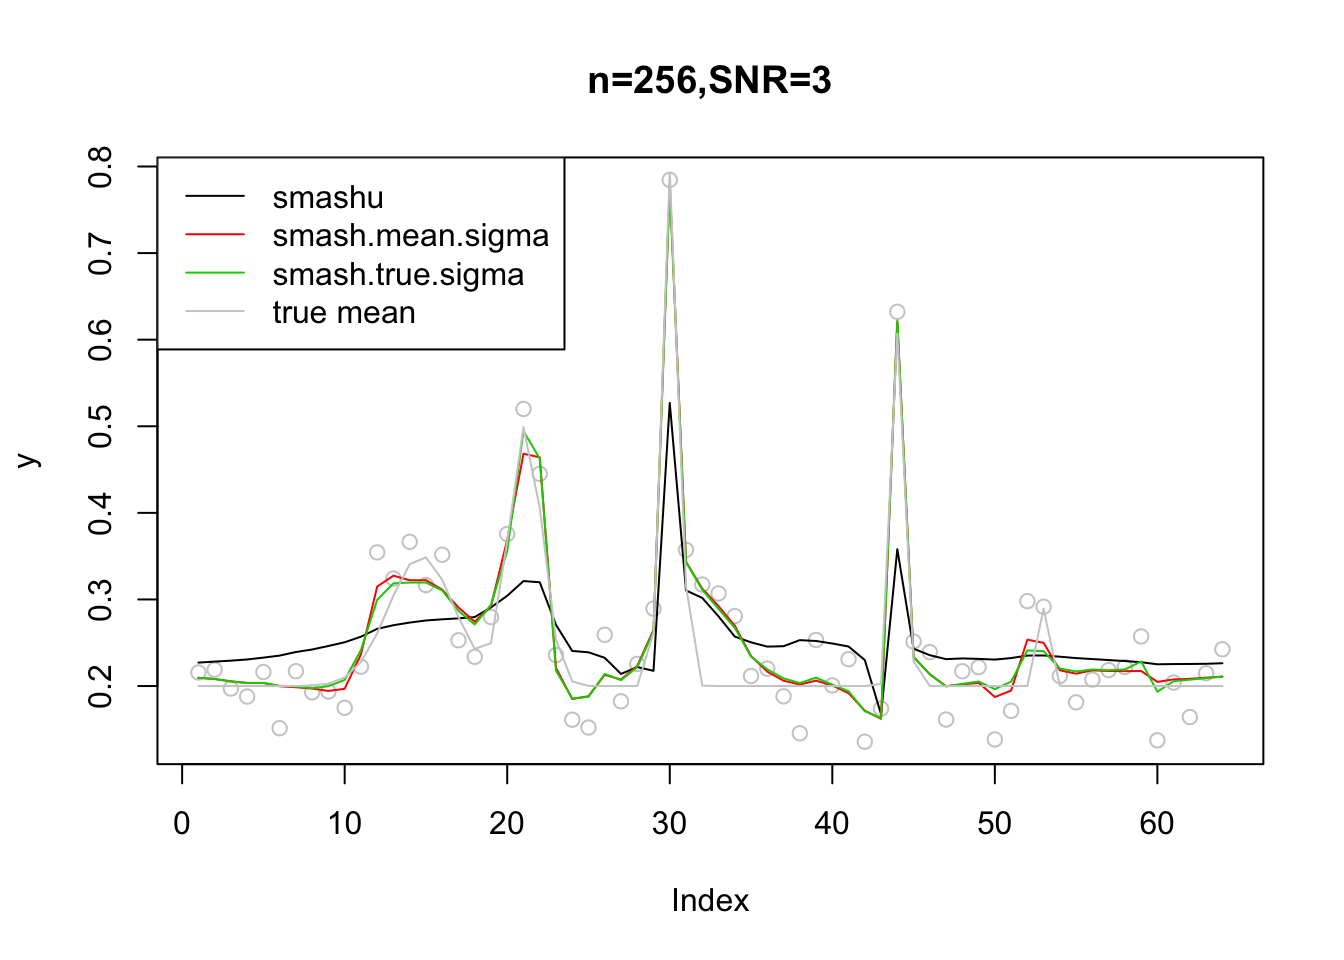
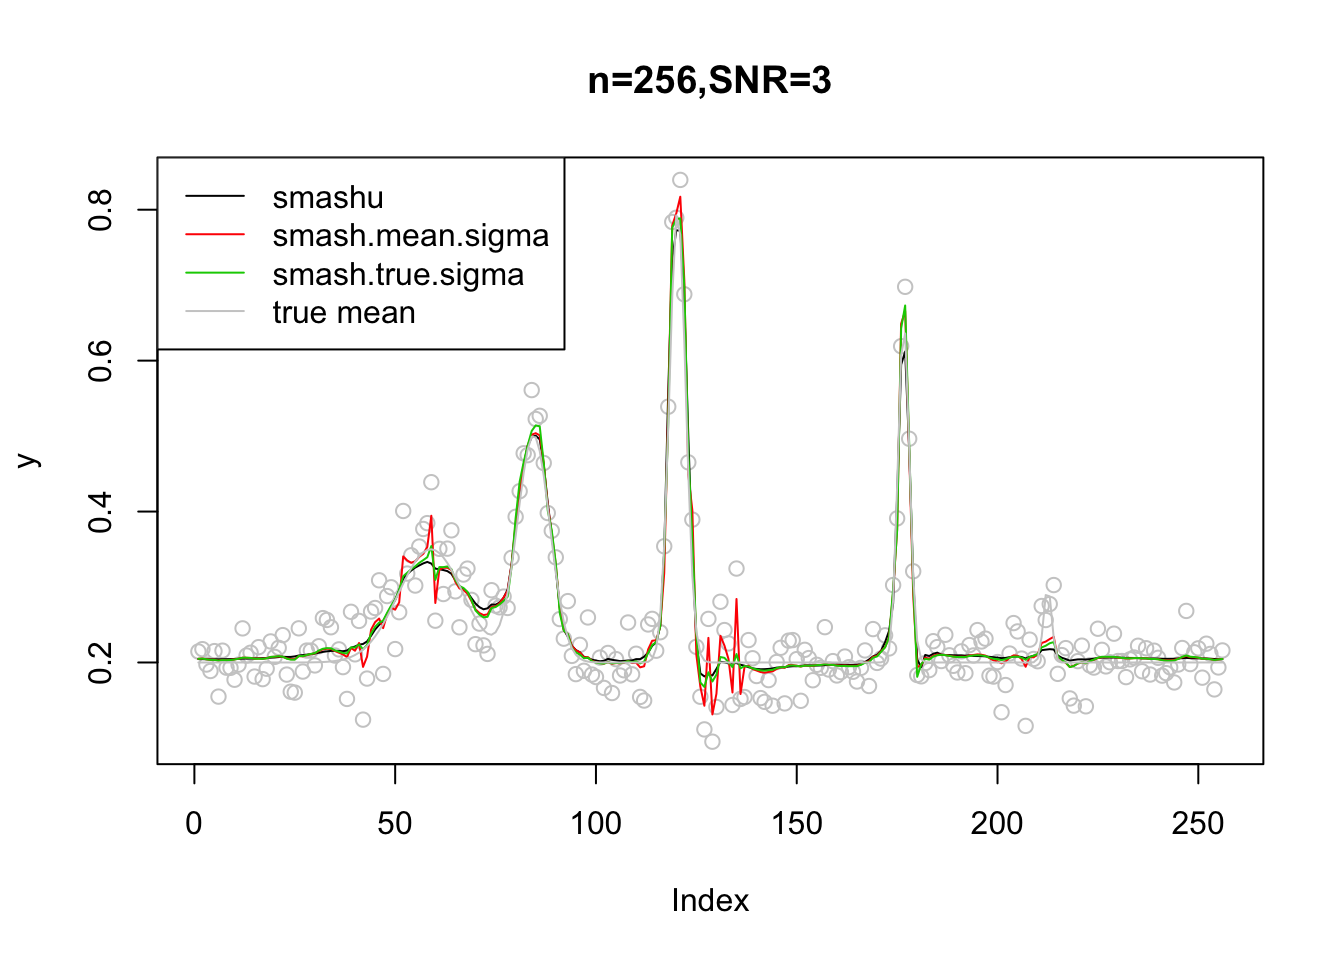
Build site.

diff --git a/docs/smashrobust.html b/docs/smashrobust.html
@@ -364,7 +364,7 @@ div.section {
 </details>
 </li>
 <li>
-<p><details> <summary> <strong style="color:blue;">✔</strong> <strong>Repository version:</strong> <a href="https://github.com/DongyueXie/smash-gen/tree/4f4e8fc606af5fc158dda07ef3cc6acc7e2bea2d" target="_blank">4f4e8fc</a> </summary></p>
+<p><details> <summary> <strong style="color:blue;">✔</strong> <strong>Repository version:</strong> <a href="https://github.com/DongyueXie/smash-gen/tree/2fcb77607f7b995987716c82f36f711462e197e6" target="_blank">2fcb776</a> </summary></p>
 Great! You are using Git for version control. Tracking code development and connecting the code version to the results is critical for reproducibility. The version displayed above was the version of the Git repository at the time these results were generated. <br><br> Note that you need to be careful to ensure that all relevant files for the analysis have been committed to Git prior to generating the results (you can use <code>wflow_publish</code> or <code>wflow_git_commit</code>). workflowr only checks the R Markdown file, but you know if there are other scripts or data files that it depends on. Below is the status of the Git repository when the results were generated:
 <pre><code>
 Ignored files:
@@ -405,6 +405,40 @@ Message
 </tr>
 </thead>
 <tbody>
+<tr>
+<td style="text-align:left;">
+Rmd
+</td>
+<td style="text-align:left;">
+<a href="https://github.com/DongyueXie/smash-gen/blob/2fcb77607f7b995987716c82f36f711462e197e6/analysis/smashrobust.Rmd" target="_blank">2fcb776</a>
+</td>
+<td style="text-align:left;">
+Dongyue Xie
+</td>
+<td style="text-align:left;">
+2018-10-02
+</td>
+<td style="text-align:left;">
+smash robust
+</td>
+</tr>
+<tr>
+<td style="text-align:left;">
+html
+</td>
+<td style="text-align:left;">
+<a href="https://cdn.rawgit.com/DongyueXie/smash-gen/e81b0765272c5b1511b067ba0739ecfc41acff33/docs/smashrobust.html" target="_blank">e81b076</a>
+</td>
+<td style="text-align:left;">
+Dongyue Xie
+</td>
+<td style="text-align:left;">
+2018-10-02
+</td>
+<td style="text-align:left;">
+Build site.
+</td>
+</tr>
 <tr>
 <td style="text-align:left;">
 Rmd
@@ -629,7 +663,7 @@ Dongyue Xie
 <pre class="r"><code>mean(sqrt(smash.gaus(y,joint=T)$var.res))</code></pre>
 <pre><code>[1] 0.02924347</code></pre>
 <p>Decrease n to 256:</p>
-<pre class="r"><code>n = 64
+<pre class="r"><code>n = 256
 t = 1:n/n
 spike.f = function(x) (0.75 * exp(-500 * (x - 0.23)^2) +
             1.5  * exp(-2000 * (x - 0.33)^2) +
@@ -679,6 +713,17 @@ Date
 <tbody>
 <tr>
 <td style="text-align:left;">
+<a href="https://github.com/DongyueXie/smash-gen/blob/e81b0765272c5b1511b067ba0739ecfc41acff33/docs/figure/smashrobust.Rmd/unnamed-chunk-3-1.png" target="_blank">e81b076</a>
+</td>
+<td style="text-align:left;">
+Dongyue Xie
+</td>
+<td style="text-align:left;">
+2018-10-02
+</td>
+</tr>
+<tr>
+<td style="text-align:left;">
 <a href="https://github.com/DongyueXie/smash-gen/blob/e7afb4d203920a347d28d6d6df901118d8460996/docs/figure/smashrobust.Rmd/unnamed-chunk-3-1.png" target="_blank">e7afb4d</a>
 </td>
 <td style="text-align:left;">
@@ -726,9 +771,9 @@ Dongyue Xie
 </table>
 <p></details></p>
 <pre class="r"><code>mean(sigma.t)</code></pre>
-<pre><code>[1] 0.03423118</code></pre>
+<pre><code>[1] 0.03188944</code></pre>
 <pre class="r"><code>mean(sqrt(smash.gaus(y,joint=T)$var.res))</code></pre>
-<pre><code>[1] 0.07396342</code></pre>
+<pre><code>[1] 0.03388786</code></pre>
 <p>Decrease n to 64:</p>
 <pre class="r"><code>n = 64
 t = 1:n/n
@@ -780,6 +825,17 @@ Date
 <tbody>
 <tr>
 <td style="text-align:left;">
+<a href="https://github.com/DongyueXie/smash-gen/blob/e81b0765272c5b1511b067ba0739ecfc41acff33/docs/figure/smashrobust.Rmd/unnamed-chunk-4-1.png" target="_blank">e81b076</a>
+</td>
+<td style="text-align:left;">
+Dongyue Xie
+</td>
+<td style="text-align:left;">
+2018-10-02
+</td>
+</tr>
+<tr>
+<td style="text-align:left;">
 <a href="https://github.com/DongyueXie/smash-gen/blob/e7afb4d203920a347d28d6d6df901118d8460996/docs/figure/smashrobust.Rmd/unnamed-chunk-4-1.png" target="_blank">e7afb4d</a>
 </td>
 <td style="text-align:left;">
@@ -812,6 +868,17 @@ Date
 </tr>
 </thead>
 <tbody>
+<tr>
+<td style="text-align:left;">
+<a href="https://github.com/DongyueXie/smash-gen/blob/e81b0765272c5b1511b067ba0739ecfc41acff33/docs/figure/smashrobust.Rmd/unnamed-chunk-4-2.png" target="_blank">e81b076</a>
+</td>
+<td style="text-align:left;">
+Dongyue Xie
+</td>
+<td style="text-align:left;">
+2018-10-02
+</td>
+</tr>
 <tr>
 <td style="text-align:left;">
 <a href="https://github.com/DongyueXie/smash-gen/blob/e7afb4d203920a347d28d6d6df901118d8460996/docs/figure/smashrobust.Rmd/unnamed-chunk-4-2.png" target="_blank">e7afb4d</a>
@@ -863,10 +930,70 @@ lines(smash.gaus(y,sigma.t),col=3)
 lines(mu.t,col=&#39;grey80&#39;)
 legend(&#39;topleft&#39;,c(&#39;smashu&#39;,&#39;smash.mean.sigma&#39;,&#39;smash.true.sigma&#39;,&#39;true mean&#39;),col=c(1,2,3,&#39;grey80&#39;),lty=c(1,1,1,1))</code></pre>
 <p><img src="figure/smashrobust.Rmd/unnamed-chunk-5-1.png" width="672" style="display: block; margin: auto;" /></p>
+<details> <summary><em>Expand here to see past versions of unnamed-chunk-5-1.png:</em></summary>
+<table style="border-collapse:separate; border-spacing:5px;">
+<thead>
+<tr>
+<th style="text-align:left;">
+Version
+</th>
+<th style="text-align:left;">
+Author
+</th>
+<th style="text-align:left;">
+Date
+</th>
+</tr>
+</thead>
+<tbody>
+<tr>
+<td style="text-align:left;">
+<a href="https://github.com/DongyueXie/smash-gen/blob/e81b0765272c5b1511b067ba0739ecfc41acff33/docs/figure/smashrobust.Rmd/unnamed-chunk-5-1.png" target="_blank">e81b076</a>
+</td>
+<td style="text-align:left;">
+Dongyue Xie
+</td>
+<td style="text-align:left;">
+2018-10-02
+</td>
+</tr>
+</tbody>
+</table>
+<p></details></p>
 <pre class="r"><code>plot(sqrt(smash.gaus(y,joint=T)$var.res),type=&#39;l&#39;,ylim=c(0.07,0.15),main=&#39;sigma&#39;)
 lines(rep(mean(sigma.t),n),col=2)
 lines(sigma.t,col=3)</code></pre>
 <p><img src="figure/smashrobust.Rmd/unnamed-chunk-5-2.png" width="672" style="display: block; margin: auto;" /></p>
+<details> <summary><em>Expand here to see past versions of unnamed-chunk-5-2.png:</em></summary>
+<table style="border-collapse:separate; border-spacing:5px;">
+<thead>
+<tr>
+<th style="text-align:left;">
+Version
+</th>
+<th style="text-align:left;">
+Author
+</th>
+<th style="text-align:left;">
+Date
+</th>
+</tr>
+</thead>
+<tbody>
+<tr>
+<td style="text-align:left;">
+<a href="https://github.com/DongyueXie/smash-gen/blob/e81b0765272c5b1511b067ba0739ecfc41acff33/docs/figure/smashrobust.Rmd/unnamed-chunk-5-2.png" target="_blank">e81b076</a>
+</td>
+<td style="text-align:left;">
+Dongyue Xie
+</td>
+<td style="text-align:left;">
+2018-10-02
+</td>
+</tr>
+</tbody>
+</table>
+<p></details></p>
 <pre class="r"><code>mean(sigma.t)</code></pre>
 <pre><code>[1] 0.0955747</code></pre>
 <pre class="r"><code>mean(sqrt(smash.gaus(y,joint=T)$var.res))</code></pre>
